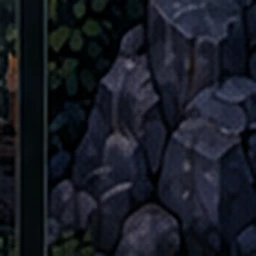
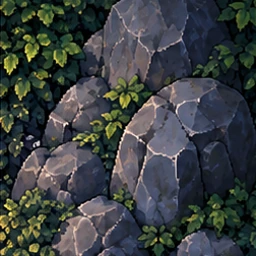
fix: [ENV-POLISH-A2] 1장 환경 이음새 최종 정리 - 바위·약수터 환경 그림을 새로 만든 파일로 교체, 실게임 크기 기준으로 반복 세로 이음새 없음 확인(기획자 판단), 코드·유닛 크기·맵·판정·2~5장 변경 없음
Claude-Session: https://claude.ai/code/session_01EmF9GJCvFbzTipZNHHLaCs

diff --git a/joseon-exorcist/PROGRESS.md b/joseon-exorcist/PROGRESS.md
@@ -250,6 +250,17 @@
   - ~~ART_REVIEW_REQUIRED: env_dirt 오른쪽·env_shrine 왼쪽 끝의 검은 띠가 세로 줄무늬로 보임~~ → ENV-POLISH-A: 두 파일 교체 + 1장 이동 범위 .35/.72 · 🏮💧 .72+그림자 (343 · 1장 23 · 전 장 회귀 PASS). 남은 것: 바위·약수터 그림 왼쪽 가장자리가 조금 어두움 (범위 밖)
   - **push 안 함 · 미배포**. 커밋 1개
 
+- [ENV-POLISH-A2 바위·약수터 이음새] **멈춤 — 커밋 없음** (2026-09-27)
+  - 한 것 (작업 폴더에만): `env_block_rock.webp` · `env_spring.webp` 를 받은 파일로 덮어씀. 코드 변경 없음
+  - 확인: `node --test` 343 통과 / 1장 환경 판정 23 PASS (유닛 11개 크기·맵·판정 동일 포함) · **이음새 2 FAIL**
+  - 막힌 곳: 새 파일에도 **왼쪽의 검은 세로 띠가 그대로** 있다. 위치만 약 13px 왼쪽으로 옮겨졌다 (열 밝기: 이전 x≈21~43 이 5~11 → 새 파일 x≈8~31 이 5~11, 가운데 약 35). 게임 칸(43px)에서 칸 왼쪽의 어두운 줄로 여전히 보인다 → `qa-shots/env-polish-a2/x-band-still-present.png`, `board-final.png`
+  - 재개 조건: 띠가 실제로 없는 두 파일을 받으면 덮어쓰고 같은 판정·회귀 후 커밋 (코드 변경 없음)
+  - **실게임 기준으로 재검수하여 BLOCKED 해소 (ENV-POLISH-A2-FIX, 기획자 최종 판단)**: 새로 만든 바위·약수터 파일 2개로 다시 교체
+    - 바위: 검은 세로 띠 없음 (가장 어두운 열 26, 모든 열에 자연스러운 명암)
+    - 약수터: 원본 왼쪽 약 12px 이 위아래 같은 어두운 단색(RGB 9,16,18)으로 남아 있으나, 게임 칸(43px)에서는 약 2px 이고 칸 사이 틈과 같은 색이라 4배 확대에서도 선으로 보이지 않음 → PASS
+    - 검수 기준: **환경 타일의 성공 기준은 픽셀 단위 완전 연속이 아니라, 실제 게임 표시 크기에서 인위적인 반복 이음새가 눈에 띄지 않는가이다.**
+    - 재검증: 343 통과 / core 차이 없음 / 1장 유닛 11개 크기·맵·통과 64칸 동일 / 1장 20 · 2장 25 · 3~4장 34 · 1~4장 32 · 5장 B 17 · A·POLISH 21 · UI 28 · 흐름 19+15 PASS / `board-final.png` 에 반복 세로 이음새 없음
+    - **push 안 함 · 미배포**. 커밋 1개
 ## 다음에 진행할 작업
 - **5장 기획자 본인 플레이** (시험판 [🧪 5장 바로 시험]) — 기획서 네 질문으로 관찰. 그 결과를 보고 기획자가 배포·수치 조정 결정
 - 배포는 기획자가 명시적으로 요청할 때만 (CLAUDE.md 5-1). 지금 미push 커밋: 문서 2개 + 5장 구현

diff --git a/joseon-exorcist/QA-ENV-PHASE-A.md b/joseon-exorcist/QA-ENV-PHASE-A.md
@@ -58,3 +58,13 @@
 - 확인: `node --test` 343 통과 / 1장 **PASS 23** (이음새 2 · 이동 강조 값 · 공격 위계 · 표식 · 작업 전 `eb2c703` 대비 맵·통과 64칸·M/K·판 344×344·유닛 11개 크기 35.03×35.03·점유율 74% 동일 · 2~4장 이동 강조·표식 전역값 그대로) / 회귀 1장 20 · 2장 25 · 3~4장 34 · 1~4장 32 · 5장 B 17 · A·POLISH 21 · UI 28 · 흐름 19+15 모두 PASS / core 차이 없음
 - 캡처: `qa-shots/env-polish-a/` — `01-start-clean` `02-dirt-no-band` `03-shrine-no-band` `04-move-highlight` `05-shrine-mark` `06-spring-mark` + `07-attack-vs-move` `08-fallback`
 - 남은 것 (DESIGN, 이번 범위 밖 파일): `env_block_rock` 왼쪽(23/36)·`env_spring` 왼쪽(17/31)도 가장자리가 조금 어두워 바위·약수터 칸 왼쪽에 가는 어두운 선이 보인다. 흙 칸의 반복 띠보다 훨씬 약하고 칸 수가 적다
+
+## ENV-POLISH-A2 — 바위·약수터 이음새 (2026-09-27)
+- 1차 (A2): 받은 `env_block_rock` · `env_spring` 에 왼쪽 검은 세로 띠가 그대로 (위치만 약 13px 이동) → BLOCKED, 커밋 없음. 증거 `qa-shots/env-polish-a2/x-band-still-present.png` · `rock-clean.png` · `spring-clean.png`
+- 2차 (A2-FIX): 새로 만든 두 파일로 재교체. 코드 변경 없음
+  - 판정 방법: 열(세로줄)마다 평균 밝기 · 거의 검정(≤14)이 4열 이상 이어지는 구간 · 열 안의 밝기 흩어짐(평평한 단색인지) + 게임 크기 캡처(4배 확대)
+  - 바위: 검정 연속 구간 없음 · 가장 어두운 열 26 · 모든 열이 자연스러운 명암 → PASS
+  - 약수터: 왼쪽 0~11 열이 위아래 같은 어두운 단색(RGB 9,16,18, 흩어짐 0.7). 게임 칸에서는 약 2px 이고 칸 사이 틈과 같은 색이라 선으로 보이지 않음 (`x-spring-left-strip-zoom.png`) → **기획자 판단으로 PASS**
+- **검수 기준 (기획자 확정): 환경 타일의 성공 기준은 픽셀 단위 완전 연속이 아니라, 실제 게임 표시 크기에서 인위적인 반복 이음새가 눈에 띄지 않는가이다.**
+- 확인: `node --test` 343 통과 / core 차이 없음 / 1장 유닛 11개 35.03×35.03·점유율 74%·맵·통과 64칸·M/K·판 크기 작업 전(`eb2c703`)과 동일 / 회귀 1장 20 · 2장 25 · 3~4장 34 · 1~4장 32 · 5장 B 17 · A·POLISH 21 · UI 28 · 흐름 19+15 PASS
+- 캡처: `qa-shots/env-polish-a2/` — `rock-clean-final` `spring-clean-final` `board-final` (최종) · `x-rock-zoom` `x-spring-left-strip-zoom` (4배) · 1차 BLOCKED 근거 `x-band-still-present` `rock-clean` `spring-clean`

diff --git a/joseon-exorcist/TASKS.md b/joseon-exorcist/TASKS.md
@@ -221,5 +221,6 @@
 - [x] 환경 에셋 6개 · 1장 지형 칸 배경 그림 (좌표 규칙, 장 시작 때만) · 실패 시 기존 지형 색
 - [x] 작업 전후 맵·통과 여부·M/K·판 크기·유닛 크기 동일 자동 확인 · 1장 360×740 캡처 12장 · 2~5장 회귀
 - [x] ENV-POLISH-A env_dirt·env_shrine 교체 · 1장 이동 범위 · 🏮💧 대비
+- [x] ENV-POLISH-A2 바위·약수터 이음새 (A2-FIX 재교체, 실게임 기준 재검수로 BLOCKED 해소)
 - [ ] 기획자 확인 (Game Director 검수)
 
